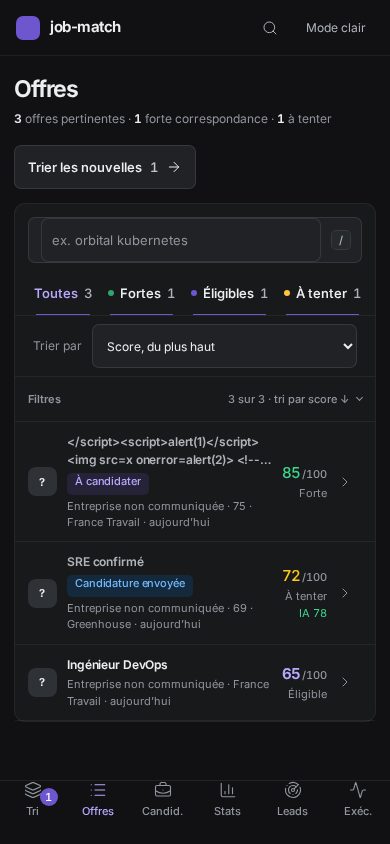
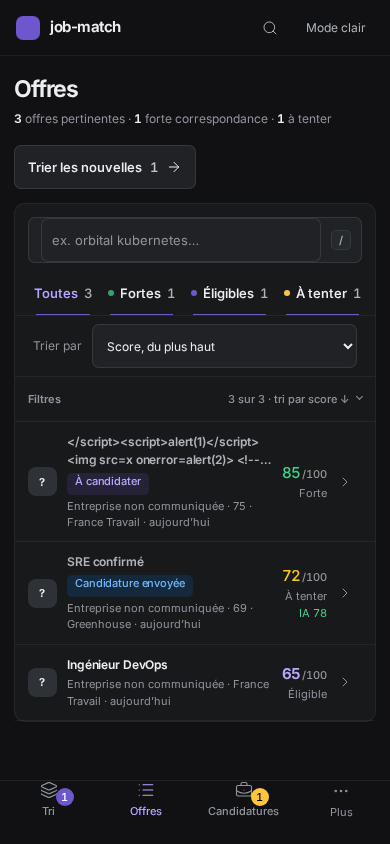
docs(design): fix-pass report, final captures, PROGRESS
IMPECCABLE_AUDIT.md: a status per issue (3/3 P1, 22/22 P2, 12/20 P3)
and §11 with commits, detector before/after (0 eyebrow, 0 contrast,
0 overflow), motion and guidelines passes, tests. DESIGN.md records the
decisions applied. 58 final « after » captures (6 views, both themes,
1440 and 390, break-ui scenarios) replace the per-view ones.

Claude-Session: https://claude.ai/code/session_013uFx8ADDrP1WpAqc3Ka8EB

diff --git a/docs/design/IMPECCABLE_AUDIT.md b/docs/design/IMPECCABLE_AUDIT.md
@@ -1,5 +1,8 @@
 # Audit Impeccable — tableau de bord job-match
 
+> **Mise à jour 2026-11-08 :** passe de correction faite sur la même branche après validation
+> (§10 tranché). Statut de chaque problème dans la colonne « Statut » du §2, bilan au §11.
+
 **Branche** `design/impeccable-pass` (depuis `origin/main` 7299229) · 2026-11-07 · **diagnostic
 uniquement : aucune ligne de l'UI n'a été modifiée.** À valider avant toute correction.
 
@@ -59,83 +62,83 @@ corrigerait le problème (à lancer après ta validation).
 
 ### Tri (`#tri`)
 
-| ID | Prio | Problème | Capture | Commande | Effort |
-|---|---|---|---|---|---|
-| T1 | P2 | **Titre de la carte non borné** : un titre long prend 7 lignes à 390 px et pousse le « Relevé du score » sous la ligne de flottaison ; la décision se prend alors sans le score visible. Borner à 3 lignes (titre complet dans la fiche, déjà à un clic) | `breakui-long-titles-tri-390.png` | `/impeccable harden` | S |
-| T2 | P2 | **Viewport court** (téléphone en paysage, zoom 200 %) : barre du haut 56 px + en-tête de page (surtitre, titre 26 px, sous-titre) + progression + barre d'actions + tab bar 64 px → ≈ 100 px utiles pour la carte. L'en-tête de page devrait se replier sous ~600 px de haut | `zoom200-tri-1440.png` | `/impeccable adapt` | M |
-| T3 | P2 | **Graduations du relevé** : « digest 60 » / « forte 70 » en 10 px, mot interne anglais « digest », 3,3:1 en clair. Dire « seuil d'envoi 60 » / « forte 70 » en 11 px AA | `tri-1440-light.png` | `/impeccable clarify` | S |
-| T4 | P2 | **Suivi indisponible** : deux bandeaux empilés (ambre « Le suivi n'a pas pu être chargé » + gris « Le tri enregistre tes choix : il demande le tableau de bord hébergé ») ; le second donne une fausse cause (la page *est* hébergée, c'est l'API qui a échoué) et repousse la carte d'environ 170 px à 390 px | `breakui-api-down-tri-390.png` | `/impeccable harden` | S |
-| T5 | P2 | **Écran « Tri terminé » collé en bas** de la zone (y ≈ 610–868 à 1440) avec un vide au-dessus : la fin du tri — le moment « peak-end » — paraît cassée | `breakui-empty-tri-1440.png` | `/impeccable layout` | S |
-| T6 | P3 | **Ligne d'explication non reconnue ignorée en silence** : le seed utilise un ancien format (« +15 docker ») que `score.js` ne parse pas ; le relevé affiche alors « Point de départ 65 / Total 65 », ce qui est faux (le départ n'était pas 65). Les lignes du vrai scorer (« Matched preferred: docker (+15) ») sont reconnues ; le défaut est la retombée : dire « détail non lisible » plutôt qu'un point de départ inventé | `tri-1440-dark.png` | `/impeccable harden` | S |
-| T7 | P2 | **Raison d'écart perdue** : l'étape « Pourquoi ? » se ferme seule après 8 s (`tri.js:266`) et n'est jamais proposée pour la dernière carte (`tri.js:300`, voulu). Les « Raisons d'écart » de Statistiques sont donc biaisées, et une action minutée pénalise un usage lent (WCAG 2.2.1) | — (vérifié dans le code) | `/impeccable harden` | S |
+| ID | Prio | Problème | Capture | Commande | Effort | Statut |
+|---|---|---|---|---|---|---|
+| T1 | P2 | **Titre de la carte non borné** : un titre long prend 7 lignes à 390 px et pousse le « Relevé du score » sous la ligne de flottaison ; la décision se prend alors sans le score visible. Borner à 3 lignes (titre complet dans la fiche, déjà à un clic) | `breakui-long-titles-tri-390.png` | `/impeccable harden` | S | ✅ e8fb20a |
+| T2 | P2 | **Viewport court** (téléphone en paysage, zoom 200 %) : barre du haut 56 px + en-tête de page (surtitre, titre 26 px, sous-titre) + progression + barre d'actions + tab bar 64 px → ≈ 100 px utiles pour la carte. L'en-tête de page devrait se replier sous ~600 px de haut | `zoom200-tri-1440.png` | `/impeccable adapt` | M | ✅ e8fb20a |
+| T3 | P2 | **Graduations du relevé** : « digest 60 » / « forte 70 » en 10 px, mot interne anglais « digest », 3,3:1 en clair. Dire « seuil d'envoi 60 » / « forte 70 » en 11 px AA | `tri-1440-light.png` | `/impeccable clarify` | S | ✅ e8fb20a |
+| T4 | P2 | **Suivi indisponible** : deux bandeaux empilés (ambre « Le suivi n'a pas pu être chargé » + gris « Le tri enregistre tes choix : il demande le tableau de bord hébergé ») ; le second donne une fausse cause (la page *est* hébergée, c'est l'API qui a échoué) et repousse la carte d'environ 170 px à 390 px | `breakui-api-down-tri-390.png` | `/impeccable harden` | S | ✅ e8fb20a |
+| T5 | P2 | **Écran « Tri terminé » collé en bas** de la zone (y ≈ 610–868 à 1440) avec un vide au-dessus : la fin du tri — le moment « peak-end » — paraît cassée | `breakui-empty-tri-1440.png` | `/impeccable layout` | S | ✅ e8fb20a |
+| T6 | P3 | **Ligne d'explication non reconnue ignorée en silence** : le seed utilise un ancien format (« +15 docker ») que `score.js` ne parse pas ; le relevé affiche alors « Point de départ 65 / Total 65 », ce qui est faux (le départ n'était pas 65). Les lignes du vrai scorer (« Matched preferred: docker (+15) ») sont reconnues ; le défaut est la retombée : dire « détail non lisible » plutôt qu'un point de départ inventé | `tri-1440-dark.png` | `/impeccable harden` | S | ✅ e8fb20a |
+| T7 | P2 | **Raison d'écart perdue** : l'étape « Pourquoi ? » se ferme seule après 8 s (`tri.js:266`) et n'est jamais proposée pour la dernière carte (`tri.js:300`, voulu). Les « Raisons d'écart » de Statistiques sont donc biaisées, et une action minutée pénalise un usage lent (WCAG 2.2.1) | — (vérifié dans le code) | `/impeccable harden` | S | ✅ e8fb20a |
 
 ### Offres (`#offres`)
 
-| ID | Prio | Problème | Capture | Commande | Effort |
-|---|---|---|---|---|---|
-| O1 | **P1** | **Contraste AA raté en thème clair** : les scores et libellés de bande des lignes déjà traitées (`.is-handled`, opacité 0,6 sur toute la cellule) tombent à 2,4–2,7:1 (`#6b9e8e` sur `#e8e5f6`, `#b69464` sur `#f9f9fb`). Le score est *la* donnée de la ligne. Atténuer le titre, pas le score, ou utiliser `--ink-2` au lieu d'une opacité | `offres-1440-light.png`, `offres-390-light.png` | `/impeccable polish` | S |
-| O2 | P2 | **Deux boutons primaires** à ≥ 1280 px : « Trier les nouvelles » (en-tête) et « Candidature envoyée » / « Garder » (pied de fiche), plus « Bon match » plein violet dans « Ton avis ». DESIGN.md : un primaire par écran. Le primaire de la vue est l'action sur l'offre sélectionnée | `offres-1440-dark.png` | `/impeccable quieter` | S |
-| O3 | P2 | **Cibles < 44 px à 390 px** : champ de recherche 36 px, boutons « Trier par » 36 px, « Trier les nouvelles » 40 px (DESIGN.md exige 44 px sous 768 px) | `offres-390-dark.png` | `/impeccable adapt` | S |
-| O4 | P2 | **Liste vide qui affirme une cause fausse** : « Le run de ce matin n'a rien collecté » est un texte fixe (`list.js:474`) affiché même quand l'exécution a lu 533 offres ; la variante filtrée parle aussi du « run de ce matin » alors que les filtres portent sur toute la liste. Lire le dernier run (lues / éligibles) et le dire | `breakui-empty-offres-1440.png` | `/impeccable clarify` | S |
-| O5 | P2 | **Titre de la fiche non borné** : 6 lignes à 26 px dans le panneau de 420 px ; « Adéquation 85/100 » et le pourquoi descendent sous le pli. Borner à 3 lignes + titre complet au survol / dépliable | `breakui-long-titles-offres-1440.png` | `/impeccable harden` | S |
-| O6 | P2 | **0 offre** : la fiche vide montre « Sélectionne une offre… J et K parcourent la liste » alors qu'il n'y a rien ; « Trier les nouvelles » reste primaire et actif à 0 | `breakui-empty-offres-1440.png` | `/impeccable onboard` | S |
-| O7 | P3 | **Monogrammes faux** : « B< » pour `Beta <b>Corp</b>`, « E1 » pour « Entreprise 17 » — initiales prises sur les caractères bruts. Prendre les lettres des deux premiers mots, sinon une icône | `offres-1440-dark.png`, `breakui-500-offres-offres-1440.png` | `/impeccable harden` | S |
-| O8 | P3 | **Barre « Trier par » à 390 px** : défile horizontalement, « VILLE » coupé sans indice de défilement ; capitales espacées | `offres-390-dark.png` | `/impeccable adapt` | S |
-| O9 | P3 | 500 offres : tout est rendu (14 000 nœuds, 33 ms par frappe). Suffisant aujourd'hui ; le commentaire `list.js` suppose « about 50 rows ». Rien à faire tant que la liste reste sous quelques centaines | `breakui-500-offres-offres-1440.png` | `/impeccable optimize` | M (si besoin) |
-| O10 | **P1** | **Le curseur j/k et la fiche divergent** (vérifié en direct à 1440) : après `j j` le focus est sur « SRE confirmé » mais la ligne violette, la fiche et `?fiche=` restent sur la 1re offre jusqu'à `O`, alors que `X` / `S` / `A` agissent sur la ligne focalisée. Risque de marquer « Candidature envoyée » une offre qu'on ne lit pas. À ≥ 1280 px la fiche doit suivre le curseur (aucun appel réseau) | `offres-jk-divergence-1440-dark.png` (focus sur la ligne « SRE confirmé », fiche sur la 1re offre) | `/impeccable harden` | M |
-| O11 | P2 | **Malus affiché comme un atout** sur le chemin de repli : une compétence de `lowered` sans poids numérique et sans ligne d'explication est rendue « up » (point vert) (`why.js:134`). Les lignes du vrai scorer passent par le chemin normal ; le repli doit déduire le sens de `lowered` | `breakui-500-offres-offres-1440.png` (« php ») | `/impeccable harden` | S |
-| O12 | P3 | Pied de fiche : un « × » seul à côté du primaire (nom accessible « Écarter l'offre », mais aucun mot visible) et un second « × » de fermeture en haut | `offres-1440-dark.png` | `/impeccable clarify` | S |
+| ID | Prio | Problème | Capture | Commande | Effort | Statut |
+|---|---|---|---|---|---|---|
+| O1 | **P1** | **Contraste AA raté en thème clair** : les scores et libellés de bande des lignes déjà traitées (`.is-handled`, opacité 0,6 sur toute la cellule) tombent à 2,4–2,7:1 (`#6b9e8e` sur `#e8e5f6`, `#b69464` sur `#f9f9fb`). Le score est *la* donnée de la ligne. Atténuer le titre, pas le score, ou utiliser `--ink-2` au lieu d'une opacité | `offres-1440-light.png`, `offres-390-light.png` | `/impeccable polish` | S | ✅ b49d6d1 |
+| O2 | P2 | **Deux boutons primaires** à ≥ 1280 px : « Trier les nouvelles » (en-tête) et « Candidature envoyée » / « Garder » (pied de fiche), plus « Bon match » plein violet dans « Ton avis ». DESIGN.md : un primaire par écran. Le primaire de la vue est l'action sur l'offre sélectionnée | `offres-1440-dark.png` | `/impeccable quieter` | S | ✅ 55d8f2e |
+| O3 | P2 | **Cibles < 44 px à 390 px** : champ de recherche 36 px, boutons « Trier par » 36 px, « Trier les nouvelles » 40 px (DESIGN.md exige 44 px sous 768 px) | `offres-390-dark.png` | `/impeccable adapt` | S | ✅ 55d8f2e |
+| O4 | P2 | **Liste vide qui affirme une cause fausse** : « Le run de ce matin n'a rien collecté » est un texte fixe (`list.js:474`) affiché même quand l'exécution a lu 533 offres ; la variante filtrée parle aussi du « run de ce matin » alors que les filtres portent sur toute la liste. Lire le dernier run (lues / éligibles) et le dire | `breakui-empty-offres-1440.png` | `/impeccable clarify` | S | ✅ 55d8f2e |
+| O5 | P2 | **Titre de la fiche non borné** : 6 lignes à 26 px dans le panneau de 420 px ; « Adéquation 85/100 » et le pourquoi descendent sous le pli. Borner à 3 lignes + titre complet au survol / dépliable | `breakui-long-titles-offres-1440.png` | `/impeccable harden` | S | ✅ 55d8f2e |
+| O6 | P2 | **0 offre** : la fiche vide montre « Sélectionne une offre… J et K parcourent la liste » alors qu'il n'y a rien ; « Trier les nouvelles » reste primaire et actif à 0 | `breakui-empty-offres-1440.png` | `/impeccable onboard` | S | ✅ 55d8f2e |
+| O7 | P3 | **Monogrammes faux** : « B< » pour `Beta <b>Corp</b>`, « E1 » pour « Entreprise 17 » — initiales prises sur les caractères bruts. Prendre les lettres des deux premiers mots, sinon une icône | `offres-1440-dark.png`, `breakui-500-offres-offres-1440.png` | `/impeccable harden` | S | ✅ 55d8f2e (P3, fichier déjà modifié) |
+| O8 | P3 | **Barre « Trier par » à 390 px** : défile horizontalement, « VILLE » coupé sans indice de défilement ; capitales espacées | `offres-390-dark.png` | `/impeccable adapt` | S | ✅ 55d8f2e |
+| O9 | P3 | 500 offres : tout est rendu (14 000 nœuds, 33 ms par frappe). Suffisant aujourd'hui ; le commentaire `list.js` suppose « about 50 rows ». Rien à faire tant que la liste reste sous quelques centaines | `breakui-500-offres-offres-1440.png` | `/impeccable optimize` | M (si besoin) | ⏸ en observation (P3 ; 33 ms par frappe à 500 offres) |
+| O10 | **P1** | **Le curseur j/k et la fiche divergent** (vérifié en direct à 1440) : après `j j` le focus est sur « SRE confirmé » mais la ligne violette, la fiche et `?fiche=` restent sur la 1re offre jusqu'à `O`, alors que `X` / `S` / `A` agissent sur la ligne focalisée. Risque de marquer « Candidature envoyée » une offre qu'on ne lit pas. À ≥ 1280 px la fiche doit suivre le curseur (aucun appel réseau) | `offres-jk-divergence-1440-dark.png` (focus sur la ligne « SRE confirmé », fiche sur la 1re offre) | `/impeccable harden` | M | ✅ 1fc9479 |
+| O11 | P2 | **Malus affiché comme un atout** sur le chemin de repli : une compétence de `lowered` sans poids numérique et sans ligne d'explication est rendue « up » (point vert) (`why.js:134`). Les lignes du vrai scorer passent par le chemin normal ; le repli doit déduire le sens de `lowered` | `breakui-500-offres-offres-1440.png` (« php ») | `/impeccable harden` | S | ✅ 55d8f2e |
+| O12 | P3 | Pied de fiche : un « × » seul à côté du primaire (nom accessible « Écarter l'offre », mais aucun mot visible) et un second « × » de fermeture en haut | `offres-1440-dark.png` | `/impeccable clarify` | S | ✅ 55d8f2e (P3) |
 
 ### Candidatures (`#candidatures`)
 
-| ID | Prio | Problème | Capture | Commande | Effort |
-|---|---|---|---|---|---|
-| C1 | **P1** | **Inconnu affiché comme zéro** quand le suivi ne charge pas : « 0 dossier suivi · 0 relance en retard · 0 entretien », colonnes « Aucune. », « Garde des offres dans Tri pour les voir ici », sidebar « Candidatures 0 ». C'est une donnée inventée (principe 3 de PRODUCT.md) : afficher « — » et un état « suivi indisponible » à la place des colonnes | `breakui-api-down-candidatures-1440.png` | `/impeccable harden` | M |
-| C2 | P2 | **La même relance annoncée 5 fois** : sidebar « Relances à faire 1 », bouton ambre « 1 relance en retard », ligne de chiffres « 1 relance en retard », bandeau ambre pleine largeur, puce rouge sur la carte. Garder le bandeau (liste cliquable) et la puce ; retirer le bouton et le chiffre redondants | `candidatures-1440-dark.png` | `/impeccable distill` | S |
-| C3 | P2 | **Clé brute comme titre** : une candidature dont l'offre a quitté l'instantané s'intitule `france_travail:GONE1` (`board.js:346`). Afficher « Offre retirée » + source et date, la clé en info-bulle | `candidatures-1440-dark.png` | `/impeccable clarify` | S |
-| C4 | P2 | **Titres longs** : carte Kanban non bornée (8 lignes), bandeau de relance qui passe sur 4 lignes à 390 px avec un titre sans coupure | `breakui-long-titles-candidatures-1440.png`, `…-390.png` | `/impeccable harden` | S |
-| C5 | P2 | **390 px** : les 4 colonnes s'empilent ; « Envoyée » (où est la relance due) arrive après tout « À candidater » ; le bouton « 1 relance en retard » et « Kanban / Tableau » se tassent sur 2 lignes. Sur téléphone, ouvrir sur la colonne qui a une action due ou proposer des onglets par statut | `candidatures-390-light.png` | `/impeccable adapt` | M |
-| C6 | P3 | Un primaire « J'ai postulé » **par carte** « À candidater » : avec 6 cartes, 6 primaires | `candidatures-1440-dark.png` | `/impeccable quieter` | S |
-| C7 | P3 | « Aujourd'hui » seul en tête des métadonnées de carte : on ne sait pas de quoi (mise à jour ? publication ?) | `candidatures-1440-dark.png` | `/impeccable clarify` | S |
-| C8 | P3 | Titres `h1` → `h3` (le bandeau et les colonnes sautent `h2`) | — (détecteur) | `/impeccable polish` | S |
-| C9 | P3 | Vocabulaire qui dérive pour la même action : « J'ai postulé », « Candidature envoyée », « Envoyée » ; liens « Offre » et « Voir la fiche » côte à côte ; point rouge « offre plus affichée » confondu avec le rouge de Refus | `candidatures-1440-dark.png` | `/impeccable clarify` | S |
+| ID | Prio | Problème | Capture | Commande | Effort | Statut |
+|---|---|---|---|---|---|---|
+| C1 | **P1** | **Inconnu affiché comme zéro** quand le suivi ne charge pas : « 0 dossier suivi · 0 relance en retard · 0 entretien », colonnes « Aucune. », « Garde des offres dans Tri pour les voir ici », sidebar « Candidatures 0 ». C'est une donnée inventée (principe 3 de PRODUCT.md) : afficher « — » et un état « suivi indisponible » à la place des colonnes | `breakui-api-down-candidatures-1440.png` | `/impeccable harden` | M | ✅ b49d6d1 |
+| C2 | P2 | **La même relance annoncée 5 fois** : sidebar « Relances à faire 1 », bouton ambre « 1 relance en retard », ligne de chiffres « 1 relance en retard », bandeau ambre pleine largeur, puce rouge sur la carte. Garder le bandeau (liste cliquable) et la puce ; retirer le bouton et le chiffre redondants | `candidatures-1440-dark.png` | `/impeccable distill` | S | ✅ f0f95b7 |
+| C3 | P2 | **Clé brute comme titre** : une candidature dont l'offre a quitté l'instantané s'intitule `france_travail:GONE1` (`board.js:346`). Afficher « Offre retirée » + source et date, la clé en info-bulle | `candidatures-1440-dark.png` | `/impeccable clarify` | S | ✅ f0f95b7 |
+| C4 | P2 | **Titres longs** : carte Kanban non bornée (8 lignes), bandeau de relance qui passe sur 4 lignes à 390 px avec un titre sans coupure | `breakui-long-titles-candidatures-1440.png`, `…-390.png` | `/impeccable harden` | S | ✅ f0f95b7 |
+| C5 | P2 | **390 px** : les 4 colonnes s'empilent ; « Envoyée » (où est la relance due) arrive après tout « À candidater » ; le bouton « 1 relance en retard » et « Kanban / Tableau » se tassent sur 2 lignes. Sur téléphone, ouvrir sur la colonne qui a une action due ou proposer des onglets par statut | `candidatures-390-light.png` | `/impeccable adapt` | M | ✅ f0f95b7 |
+| C6 | P3 | Un primaire « J'ai postulé » **par carte** « À candidater » : avec 6 cartes, 6 primaires | `candidatures-1440-dark.png` | `/impeccable quieter` | S | ✅ f0f95b7 (P3) |
+| C7 | P3 | « Aujourd'hui » seul en tête des métadonnées de carte : on ne sait pas de quoi (mise à jour ? publication ?) | `candidatures-1440-dark.png` | `/impeccable clarify` | S | ✅ f0f95b7 (P3) |
+| C8 | P3 | Titres `h1` → `h3` (le bandeau et les colonnes sautent `h2`) | — (détecteur) | `/impeccable polish` | S | ✅ f0f95b7 (P3) |
+| C9 | P3 | Vocabulaire qui dérive pour la même action : « J'ai postulé », « Candidature envoyée », « Envoyée » ; liens « Offre » et « Voir la fiche » côte à côte ; point rouge « offre plus affichée » confondu avec le rouge de Refus | `candidatures-1440-dark.png` | `/impeccable clarify` | S | ✅ f0f95b7 (P3, « Annonce » ; les libellés de statut inchangés) |
 
 ### Statistiques (`#statistiques`)
 
-| ID | Prio | Problème | Capture | Commande | Effort |
-|---|---|---|---|---|---|
-| S1 | P2 | **Graphe hebdomadaire illisible à petits effectifs** : axe max = 1, chaque événement devient un trait de 12 px de large sur toute la hauteur (≈ 250 px), le graphe sort de l'écran ; on lit des pics, pas une tendance. Hauteur proportionnée, barres groupées par semaine, et en dessous de ~5 événements montrer le tableau seul | `statistiques-1440-dark.png` | `/impeccable layout` | M |
-| S2 | P3 | Tuiles « gros chiffre + libellé 11 px » (gabarit KPI) ; « anciennes) » orphelin ; le sous-texte de « Archivées » contredit le sens d'« archivée » dans Candidatures (cf. PROGRESS : connu) | `statistiques-1440-dark.png` | `/impeccable typeset` | S |
-| S3 | P2 | **Arrondi trompeur** : 2 gardées sur 500 vues → « 0 % des vues » (`stats.js:236`, `Math.round`). Afficher « < 1 % » ou une décimale | `breakui-500-offres-statistiques-1440.png` | `/impeccable clarify` | S |
+| ID | Prio | Problème | Capture | Commande | Effort | Statut |
+|---|---|---|---|---|---|---|
+| S1 | P2 | **Graphe hebdomadaire illisible à petits effectifs** : axe max = 1, chaque événement devient un trait de 12 px de large sur toute la hauteur (≈ 250 px), le graphe sort de l'écran ; on lit des pics, pas une tendance. Hauteur proportionnée, barres groupées par semaine, et en dessous de ~5 événements montrer le tableau seul | `statistiques-1440-dark.png` | `/impeccable layout` | M | ✅ c49af64 |
+| S2 | P3 | Tuiles « gros chiffre + libellé 11 px » (gabarit KPI) ; « anciennes) » orphelin ; le sous-texte de « Archivées » contredit le sens d'« archivée » dans Candidatures (cf. PROGRESS : connu) | `statistiques-1440-dark.png` | `/impeccable typeset` | S | ◐ c49af64 (orphelin corrigé ; tuiles conservées) |
+| S3 | P2 | **Arrondi trompeur** : 2 gardées sur 500 vues → « 0 % des vues » (`stats.js:236`, `Math.round`). Afficher « < 1 % » ou une décimale | `breakui-500-offres-statistiques-1440.png` | `/impeccable clarify` | S | ✅ c49af64 |
 
 ### Leads (`#leads`)
 
-| ID | Prio | Problème | Capture | Commande | Effort |
-|---|---|---|---|---|---|
-| L1 | P3 | « 1 leads de financement » : pluriel codé en dur (`leads.js:70`) | `leads-1440-dark.png` | `/impeccable clarify` | S |
-| L2 | P3 | Tour « series a » brut, en anglais et en minuscules ; « Publiée 18/10 » dans un format différent des autres vues | `leads-1440-dark.png` | `/impeccable clarify` | S |
-| L3 | P3 | 390 px : l'étiquette « recruter 30 personnes » déborde de sa boîte de 111 px | `leads-390-dark.png` | `/impeccable harden` | S |
-| L4 | P3 | Point vert sans libellé devant « Acme » (couleur seule) | `leads-1440-dark.png` | `/impeccable polish` | S |
+| ID | Prio | Problème | Capture | Commande | Effort | Statut |
+|---|---|---|---|---|---|---|
+| L1 | P3 | « 1 leads de financement » : pluriel codé en dur (`leads.js:70`) | `leads-1440-dark.png` | `/impeccable clarify` | S | ⏸ P3, `leads.js` non modifié (règle de périmètre) |
+| L2 | P3 | Tour « series a » brut, en anglais et en minuscules ; « Publiée 18/10 » dans un format différent des autres vues | `leads-1440-dark.png` | `/impeccable clarify` | S | ⏸ P3, idem |
+| L3 | P3 | 390 px : l'étiquette « recruter 30 personnes » déborde de sa boîte de 111 px | `leads-390-dark.png` | `/impeccable harden` | S | ✅ 473c34d |
+| L4 | P3 | Point vert sans libellé devant « Acme » (couleur seule) | `leads-1440-dark.png` | `/impeccable polish` | S | ⏸ P3, idem |
 
 ### Exécutions (`#executions`)
 
-| ID | Prio | Problème | Capture | Commande | Effort |
-|---|---|---|---|---|---|
-| E1 | P2 | **Codes machine non traduits** : « experience 197 · contract 30 · not_relevant 10 » (`runs.js:109` fait juste `toLowerCase()`), « ats: … france_travail: … » comme libellés de source. Le reste de l'UI dit « Trop senior », « France Travail » | `executions-1440-dark.png` | `/impeccable clarify` | S |
-| E2 | P3 | Deux boutons « Lancer maintenant » au nom accessible identique (Rerank IA / Documents) : un lecteur d'écran ne les distingue pas (`index.template.html:280,285`) | `executions-1440-dark.png` | `/impeccable polish` | S |
-| E3 | P3 | Texte de la carte « Documents » en retrait par rapport à son titre (encart dans la carte) | `executions-390-dark.png` | `/impeccable layout` | S |
-| E4 | P3 | 30 cartes de 3–4 lignes de compteurs : la seule exécution en panne se repère, mais comparer deux jours demande de lire ; une ligne par exécution + détail dépliable suffirait | `executions-1440-dark.png` | `/impeccable distill` | M |
+| ID | Prio | Problème | Capture | Commande | Effort | Statut |
+|---|---|---|---|---|---|---|
+| E1 | P2 | **Codes machine non traduits** : « experience 197 · contract 30 · not_relevant 10 » (`runs.js:109` fait juste `toLowerCase()`), « ats: … france_travail: … » comme libellés de source. Le reste de l'UI dit « Trop senior », « France Travail » | `executions-1440-dark.png` | `/impeccable clarify` | S | ✅ 3047f8b |
+| E2 | P3 | Deux boutons « Lancer maintenant » au nom accessible identique (Rerank IA / Documents) : un lecteur d'écran ne les distingue pas (`index.template.html:280,285`) | `executions-1440-dark.png` | `/impeccable polish` | S | ✅ 3047f8b (P3) |
+| E3 | P3 | Texte de la carte « Documents » en retrait par rapport à son titre (encart dans la carte) | `executions-390-dark.png` | `/impeccable layout` | S | ✅ 3047f8b (P3) |
+| E4 | P3 | 30 cartes de 3–4 lignes de compteurs : la seule exécution en panne se repère, mais comparer deux jours demande de lire ; une ligne par exécution + détail dépliable suffirait | `executions-1440-dark.png` | `/impeccable distill` | M | ⏸ P3, refonte (effort M) hors périmètre |
 
 ### Coque commune (sidebar, barre du haut, tab bar)
 
-| ID | Prio | Problème | Capture | Commande | Effort |
-|---|---|---|---|---|---|
-| G1 | P2 | **En-tête de page-slogan sur les 6 vues** (surtitre capitales + titre 26 px + sous-titre ≈ 130 px) : AI slop n° 1, contraire à DESIGN.md, et coût vertical réel (T2) | toutes les captures 1440 | `/impeccable distill` | S |
-| G2 | P2 | **Texte à 10 px hors échelle** dans 12 règles CSS, dont les libellés de la tab bar (téléphone) et, à 390 px, `.row-meta` = entreprise · lieu · contrat des lignes Offres | `offres-390-dark.png` | `/impeccable typeset` | S |
-| G3 | P3 | « Rechercher p… » tronqué dans la sidebar de 232 px (le raccourci Ctrl K mange la place) | `offres-1440-dark.png` | `/impeccable layout` | S |
-| G4 | P3 | Formats d'heure incohérents : « Instantané du 18 oct., 07:00 » (barre du haut, heure locale, sans année) vs « 18 oct. 2026, 09:00 UTC » (sidebar, UTC) vs « 18/10 » (Leads) | `offres-1440-dark.png`, `leads-1440-dark.png` | `/impeccable clarify` | S |
-| G5 | P2 | **Tab bar à 6 onglets** (DESIGN.md en prévoit 5) aux libellés tronqués (« Candid. », « Exéc. ») ; « Relances à faire » n'existe pas sur téléphone ; le badge « 332 » recouvre l'icône. Regrouper Stats / Leads / Exécutions sous « Plus », badge de relances sur Candidatures | `offres-390-dark.png`, `breakui-500-offres-tri-390.png` | `/impeccable adapt` | M |
-| G6 | P3 | « Mon espace / Tri » et « Espace personnel » simulent une profondeur et un multi-utilisateur qui n'existent pas. Non vérifié : la palette ne trouverait pas « relances » (signalé par la revue A, non reproduit ici) | toutes | `/impeccable distill` | S |
+| ID | Prio | Problème | Capture | Commande | Effort | Statut |
+|---|---|---|---|---|---|---|
+| G1 | P2 | **En-tête de page-slogan sur les 6 vues** (surtitre capitales + titre 26 px + sous-titre ≈ 130 px) : AI slop n° 1, contraire à DESIGN.md, et coût vertical réel (T2) | toutes les captures 1440 | `/impeccable distill` | S | ✅ 671732d (décision 2) |
+| G2 | P2 | **Texte à 10 px hors échelle** dans 12 règles CSS, dont les libellés de la tab bar (téléphone) et, à 390 px, `.row-meta` = entreprise · lieu · contrat des lignes Offres | `offres-390-dark.png` | `/impeccable typeset` | S | ✅ 671732d |
+| G3 | P3 | « Rechercher p… » tronqué dans la sidebar de 232 px (le raccourci Ctrl K mange la place) | `offres-1440-dark.png` | `/impeccable layout` | S | ✅ 671732d |
+| G4 | P3 | Formats d'heure incohérents : « Instantané du 18 oct., 07:00 » (barre du haut, heure locale, sans année) vs « 18 oct. 2026, 09:00 UTC » (sidebar, UTC) vs « 18/10 » (Leads) | `offres-1440-dark.png`, `leads-1440-dark.png` | `/impeccable clarify` | S | ⏸ P3 : les heures UTC des exécutions sont peut-être voulues ; à trancher |
+| G5 | P2 | **Tab bar à 6 onglets** (DESIGN.md en prévoit 5) aux libellés tronqués (« Candid. », « Exéc. ») ; « Relances à faire » n'existe pas sur téléphone ; le badge « 332 » recouvre l'icône. Regrouper Stats / Leads / Exécutions sous « Plus », badge de relances sur Candidatures | `offres-390-dark.png`, `breakui-500-offres-tri-390.png` | `/impeccable adapt` | M | ✅ 519c2c7 (4 onglets + « Plus », badge de relances) |
+| G6 | P3 | « Mon espace / Tri » et « Espace personnel » simulent une profondeur et un multi-utilisateur qui n'existent pas. Non vérifié : la palette ne trouverait pas « relances » (signalé par la revue A, non reproduit ici) | toutes | `/impeccable distill` | S | ◐ 671732d (fil et libellé retirés ; palette non reproduite) |
 
 ## 3. break-ui — ce qui casse
 
@@ -354,3 +357,62 @@ O9 (virtualisation à 500+ offres) reste en observation.
    (contrat Focus) ou le remplacer par le seul fond violet pâle ?
 4. **« Aujourd'hui »** : **option 1** (fin du Tri = agenda du jour), **option 2** (vue d'accueil
    qui remplace Stats dans la tab bar), ou **rien** pour l'instant ?
+
+## 11. Passe de correction (2026-11-08) — bilan
+
+Décisions du §10 : (1) les 3 P1, puis les P2 vue par vue (Tri, Offres, Candidatures,
+Statistiques, Leads, Exécutions), P3 seulement dans un fichier déjà modifié ; (2) surtitres
+supprimés ; (3) ligne sélectionnée = fond `--active` + anneau de focus, `aria-selected` ;
+(4) « Aujourd'hui » = écran de fin (et Tri vide) du Tri, sans 7e onglet.
+
+**Commits** (un par lot, chacun poussé) : `624bf2f` retrait de `transitions-polish` ·
+`1fc9479` P1 O10 · `b49d6d1` P1 O1 + C1 · `671732d` coque (G1–G3, G6) · `e8fb20a` Tri ·
+`55d8f2e` Offres · `f0f95b7` Candidatures · `c49af64` Statistiques · `473c34d` Leads ·
+`46e64e0` tests stabilisés · `3047f8b` Exécutions · `519c2c7` tab bar (G5) · `8e6603b`
+mouvement · `eaa7264` motifs insécables · `bb3d298` Web Interface Guidelines.
+
+**Bilan des 45 problèmes** (colonne « Statut » du §2) : **3/3 P1, 22/22 P2, 12/20 P3** corrigés
+(S2 et G6 partiellement). Reportés :
+O9 (virtualisation, en observation), L1, L2, L4 (`leads.js` non modifié), E4 (refonte d'une
+exécution par ligne), G4 (heures UTC : décision à prendre).
+
+**Captures après** : `docs/design/screenshots/impeccable/after/` (mêmes noms que les captures
+« avant » à la racine du dossier : `<vue>-<1440|390>-<dark|light>.png`, `breakui-*`), plus
+`tabbar-more-390-<thème>.png`. Mesure automatique sur les 58 captures finales : 0 débordement
+horizontal, 0 nœud texte sous 4,5:1, 0 cible < 44 px à 390 px, 0 erreur console hors le 404
+(document de fixture) et le 500 (scénario « API en panne ») attendus.
+
+**Détecteur Impeccable, avant → après**
+
+| Règle | Avant (12 scans URL) | Après |
+|---|---|---|
+| `kicker-above-heading` (surtitre) | 12 | **0** |
+| `undersized-ui-text` (< 11 px) | 12 scans | **0** |
+| `low-contrast` | 4 | **0** |
+| `skipped-heading` | 2 | **0** |
+| `text-overflow` | 1 | **0** |
+| `side-tab` (statique) | 1 | **0** (décision 3) |
+| `tiny-text` (11 px de corps) | 8 scans | 9 scans — `--fs-xs` du système, gardé pour les métadonnées |
+| `nested-cards` | 7 scans | 7 scans — cartes Kanban dans leur colonne, encart IA : motif accepté |
+| `overused-font` (statique) | 1 | 1 — Inter voulue par DESIGN.md |
+
+**Mouvement** (`review-animations` + `animation-performance`, verdict initial « Block ») : tokens
+transitions.dev (gratuits, CSS) dans `tokens.css` ; aucune animation sur les actions clavier ;
+séquence du relevé une fois par lot ; panneau, toast et ressort de la carte interruptibles ;
+reduced-motion = fondus de 150 ms sans mouvement. Non mesuré : la fluidité sur un vrai
+téléphone (pas d'appareil ici).
+
+**Web Interface Guidelines** (règles Vercel du jour) : noms accessibles contenant le texte
+visible, bouton de thème sans `aria-pressed` contradictoire, nombres et espaces à la française,
+`scroll-padding` sous les barres mobiles. Gardés volontairement : Entrée sur une ligne ouvre
+l'annonce source (DESIGN.md), `user-select: none` de la carte du Tri (swipe) ; l'annulation des
+actions de la boîte de réception est une fonctionnalité, hors de cette passe.
+
+**Tests** : `ruff check .` propre ; `pytest -q -n auto` **1 795 passed, 3 skipped** (navigateur
+inclus : 87 tests ; les 3 ignorés demandent les fichiers privés `cv_master.yaml`, `contact.yaml`,
+`data/jobs.sqlite`) ; Node `worker/` **343 pass**. Nouveaux : `test_audit_fixes.py` (j/k,
+contrastes en clair/sombre, suivi indisponible, fin du Tri et « Aujourd'hui », Offres, graphe,
+tab bar, mouvement), `test_audit_empty.py`, `todayAgenda` et le repli du relevé côté Node.
+Chacun des correctifs P1 et mouvement a un test qui échouait avant. Quatre fichiers de tests
+attendaient avec une expression nue, que la CSP refuse en `eval` sous charge (2 échecs sur 10) :
+corrigé, 10 passages consécutifs verts.

diff --git a/docs/PROGRESS.md b/docs/PROGRESS.md
@@ -3,32 +3,35 @@
 > Updated by Claude at the end of every session. Read this first when resuming.
 
 ## Current milestone
-**Impeccable design pass — diagnostic** (branch `design/impeccable-pass` from `main` 7299229,
-2026-11-07, cloud session, PR in draft). **No UI change on this branch.** Waiting for my
-validation of the report before any fix.
-1. Tooling, project scope only (`docs/design/IMPECCABLE_SETUP.md`): Impeccable 4.8.0 skill +
-   4 agents in `.claude/` without the hook (engine binary gitignored, re-downloaded and
-   checksum-verified by the launcher), telemetry off, live copy agent off, live mode unused;
-   transitions.dev free skills (`transitions-dev`, `transitions-polish`; no Pro, no Refine);
-   emilkowalski `review-animations`, `improve-animations`, `find-animation-opportunities`,
-   `animation-performance`, `break-ui` only. `design-taste-frontend` and the `frontend-design`
-   plugin are disabled in `.claude/settings.json` (deny rules / `enabledPlugins: false`), not
-   deleted.
-2. `/impeccable init` → `PRODUCT.md` (root, where Impeccable reads it). `docs/design/DESIGN.md`
-   completed with a final section (Statistiques, light mode, measured drift), nothing rewritten.
-3. Diagnostic: 6 views × light/dark × 1440/390 on the test seed + mocked API, break-ui
-   scenarios (long titles, 0, 500 offers, unknown company, Worker API down, no AI score, 200 %
-   zoom), `impeccable detect` static + 12 URL scans, critique (Assessment A isolated in a
-   sub-agent) and audit. Report: `docs/design/IMPECCABLE_AUDIT.md`; 62 captures in
-   `docs/design/screenshots/impeccable/`.
-4. Headline: audit 15/20, critique 27/40, 45 issues; three P1 — j/k cursor vs record divergence, light-mode contrast of handled rows' scores (opacity 0.6,
-   2.4–2.7:1) and Candidatures showing « 0 » when the tracking failed to load; the page-top
-   eyebrow/slogan on every view is the main AI-slop tell.
-5. Checks: `ruff check .` clean; `pytest -q -n auto` 1 708 passed, 73 skipped (the browser
-   tests: this container's Chromium build does not match the pip Playwright; no code changed).
-**Next step:** read the report, answer its questions (§10), then run the fixes view by view in
-the order of §9 — one commit per command, Playwright tests updated, captures re-taken.
-**Open decision:** build the « Aujourd'hui » view or not (§8).
+**Impeccable design pass — fixes** (branch `design/impeccable-pass`, 2026-11-08, cloud session,
+PR #25 in draft). The 2026-11-07 diagnostic (`docs/design/IMPECCABLE_AUDIT.md`) was validated
+with four decisions: P1 then P2 view by view (P3 only in files already touched), eyebrows
+removed, selected row = `--active` + focus ring, « Aujourd'hui » = the Tri's end screen.
+1. P1: the Offres record follows the j/k cursor and X/S/A act on the shown offer (O10);
+   handled rows keep AA scores in both themes (O1); without the tracking Candidatures says
+   « suivi indisponible » and « — », never 0 (C1).
+2. Shell: no eyebrow or slogan, no uppercase micro-labels, 11 px floor, no side stripe on the
+   selected row; phone tab bar = Tri, Offres, Candidatures (due badge), « Plus » (G1–G6).
+3. Views: Tri end screen « Aujourd'hui » from `triage.js todayAgenda` (Node-tested), last
+   reason asked there, no 8 s timer, clamped titles; Offres one primary, true empty states,
+   phone sort select, 44 px; Candidatures follow-up said once, gone offers named; Statistiques
+   table under 5 events, « < 1 % »; Leads claim wraps; Exécutions codes in words.
+4. Motion: transitions.dev token scale in `tokens.css`; no animation on keyboard actions;
+   ledger sequence once per batch; interruptible drawer/toast/spring-back; reduced motion keeps
+   fades (review-animations + animation-performance).
+5. Tooling: `transitions-polish` removed; Chromium 1248 installed so the browser tests run;
+   flaky waits fixed (bare-expression `wait_for_function` + CSP eval).
+6. Checks: ruff clean; `pytest -q -n auto` 1 795 passed, 3 skipped (browser 87); Node 343
+   pass; impeccable detect 0 eyebrow / 0 contrast / 0 overflow (`IMPECCABLE_AUDIT.md` §11).
+**Next step:** review PR #25 visually (captures in `docs/design/screenshots/impeccable/after/`),
+then merge; on prod, check the Tri end screen and the phone tab bar on the real data.
+**Open decisions:** G4 (UTC times in Exécutions/sidebar vs local snapshot time); deferred P3:
+L1, L2, L4 (`leads.js`), E4 (one line per run), O9 (virtualisation past ~500 offers).
+**Known:** the CI installs its own Chromium; this container needed `playwright install
+chromium` (1248) for the pip Playwright 1.64.
+
+Before it: **Impeccable design pass — diagnostic** (same branch, 2026-11-07): tooling installed in
+the project only, `PRODUCT.md`, the report and 62 captures; audit 15/20, critique 27/40, 45 issues.
 
 Before it: **Source outage guard** (branch `fix/source-outage-guard` from `main`, 2026-11-06, ADR 0027,
 PR in draft). Context: on 2026-11-06 France Travail was down (search → 0 offer, offer pages →
